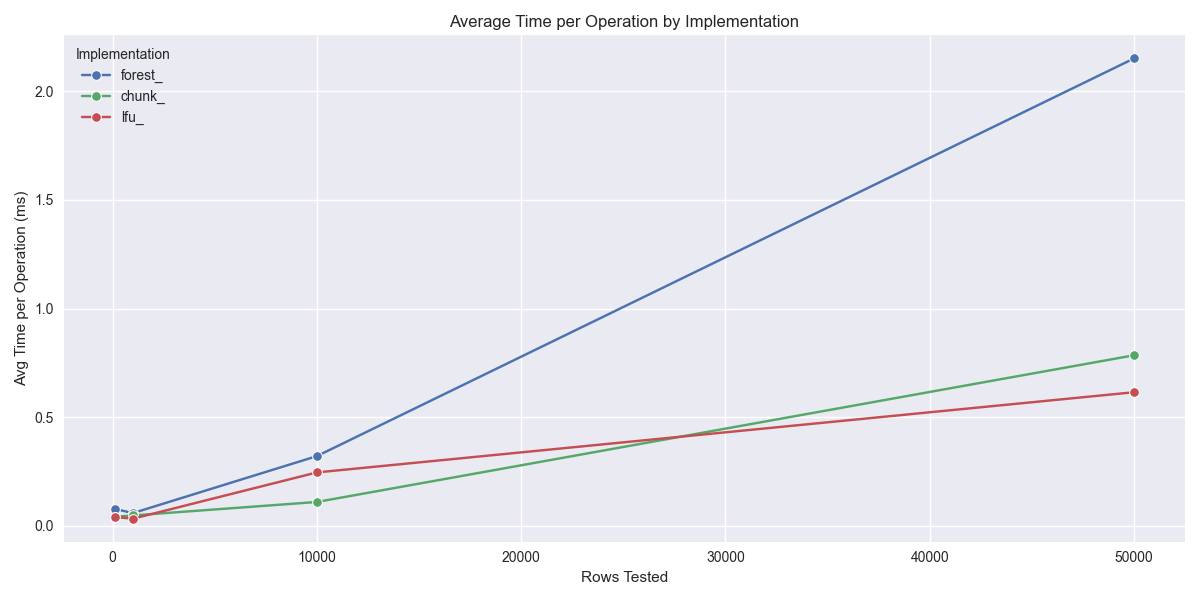
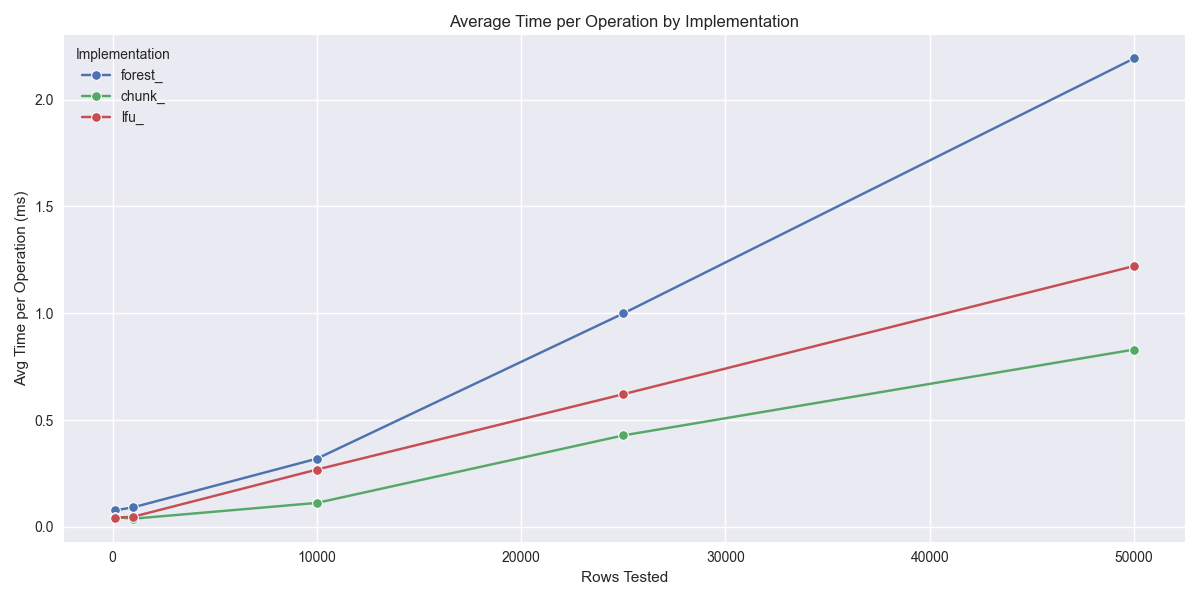
added 25k rows

diff --git a/src/main/java/edu/smu/smusql/evaluation/Evaluator.java b/src/main/java/edu/smu/smusql/evaluation/Evaluator.java
@@ -47,8 +47,9 @@ public class Evaluator {
     }
 
     public void runEvaluation(Scanner scanner) {
-        // String[] implementations = { "backwards_", "chunk_", "forest_", "random_", "lfu_" };
-        String[] implementations = {"forest_","chunk_", "lfu_"};
+        // String[] implementations = { "backwards_", "chunk_", "forest_", "random_",
+        // "lfu_" };
+        String[] implementations = { "forest_", "chunk_", "lfu_" };
         System.out.println("\nSkip to scalability tests? (y/n)");
         System.out.flush();
         String r1 = scanner.nextLine().trim().toLowerCase();
@@ -190,8 +191,8 @@ public class Evaluator {
 
         for (int key : queryKeys) {
             String query = String.format("SELECT * FROM %s WHERE id = %d", tableName, key);
-            if(tableName.startsWith("chunk_")){
-                int warmupKey = random.nextInt(1,1000);
+            if (tableName.startsWith("chunk_")) {
+                int warmupKey = random.nextInt(1, 1000);
                 dbEngine.executeSQL(String.format("SELECT * FROM %s WHERE id = %d", tableName, warmupKey));
             }
 
@@ -200,7 +201,6 @@ public class Evaluator {
             results.recordLatency("FREQUENCY_TEST", System.nanoTime() - start);
         }
     }
-
 
     private void executeSequentialTest(String tableName, DataType dataType, TestResults results) {
         for (int i = 0; i < 1000; i++) {
@@ -239,7 +239,7 @@ public class Evaluator {
 
     public void testScalability() {
         System.out.println("\nStarting scalability test");
-        int[] rowCounts = { 100, 1000, 10000, 30000 };
+        int[] rowCounts = { 100, 1000, 10000, 25000, 50000 };
         String[] implementations = { "forest_", "chunk_", "lfu_" };
 
         for (String impl : implementations) {
@@ -290,7 +290,7 @@ public class Evaluator {
 
     // Method to test scalability, print table, and store results for CSV export
     private void testOperationsForScale(String tableName, int rowCount, String implementation,
-                                        double initialMemoryOverhead) {
+            double initialMemoryOverhead) {
         long totalLatency = 0; // Sum of all latencies
         long maxLatency = Long.MIN_VALUE; // Maximum latency
         long minLatency = Long.MAX_VALUE; // Minimum latency
@@ -321,9 +321,11 @@ public class Evaluator {
 
         // Measure memory after mixed operations phase
         MemoryUsage afterMixedOpsMemory = memoryBean.getHeapMemoryUsage();
-        double memoryOverhead = (afterMixedOpsMemory.getUsed() - initialMemoryUsed) / (1024.0 * 1024.0); // Convert to MB
+        double memoryOverhead = (afterMixedOpsMemory.getUsed() - initialMemoryUsed) / (1024.0 * 1024.0); // Convert to
+                                                                                                         // MB
 
-        // If memory overhead is negative, fall back to initial memory overhead as an approximation
+        // If memory overhead is negative, fall back to initial memory overhead as an
+        // approximation
         if (memoryOverhead < 0) {
             memoryOverhead = initialMemoryOverhead;
         }
@@ -368,7 +370,7 @@ public class Evaluator {
     }
 
     private void printTable(String implementation, int rowCount, long totalLatency, long avgLatency,
-                            long minLatency, long maxLatency, long percentile50, long percentile90, double memoryOverhead, int count) {
+            long minLatency, long maxLatency, long percentile50, long percentile90, double memoryOverhead, int count) {
         System.out.println("\n+--------------------------------------------------+");
         System.out.printf("| %-48s |\n", "Scalability Test Results");
         System.out.println("+--------------------------------------------------+");
